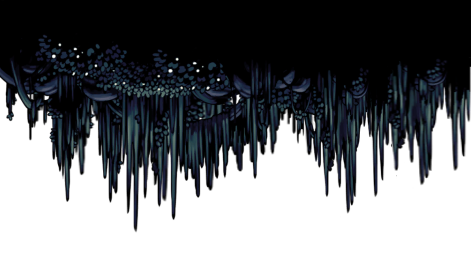
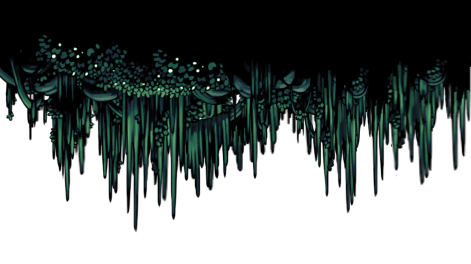
Decorated first level

diff --git a/src/main/java/platformer/model/levels/LevelObjectManager.java b/src/main/java/platformer/model/levels/LevelObjectManager.java
@@ -18,8 +18,8 @@ public class LevelObjectManager {
             "BIG_STONE1", "BIG_STONE2", "BIG_STONE3", "THORNS1", "THORNS2", "THORNS3", "PLANT1", "PLANT2",
             "PLANT3", "PLANT4", "PLANT5", "PLANT6", "PLANT7", "PLANT8", "PLANT9", "PLANT10",
             "PLANT11", "VINES1", "VINES1_BIG", "VINES2", "VINES3", "VINES4", "MOSS1", "MOSS2",
-            "LEAF1", "BUSH1", "THORNS1_BIG", "VINES2_BIG", "MOSS1_BIG", "GROUND1", "GROUND2", "MOSS3",
-            "MOSS4"
+            "LEAF1", "BUSH1", "THORNS1_BIG", "VINES2_BIG", "MOSS1_BIG", "VINES5", "STONE_MOSS1", "MOSS3",
+            "MOSS4", "STONE_MOSS2", "BLACK", "LEFT_END", "RIGHT_END"
     };
 
     private final Map<String, Point> size = new HashMap<>() {{
@@ -36,13 +36,13 @@ public class LevelObjectManager {
         put("PLANT5",               new Point((int)(32*Tiles.SCALE.getValue()), (int)(32*Tiles.SCALE.getValue())));             //10
         put("PLANT6",               new Point((int)(32*Tiles.SCALE.getValue()), (int)(32*Tiles.SCALE.getValue())));             //11
         put("PLANT7",               new Point((int)(32*Tiles.SCALE.getValue()), (int)(32*Tiles.SCALE.getValue())));             //12
-        put("PLANT8",               new Point((int)(32*Tiles.SCALE.getValue()), (int)(32*Tiles.SCALE.getValue())));             //13
+        put("PLANT8",               new Point((int)(32*Tiles.SCALE.getValue()), (int)(32*1.5*Tiles.SCALE.getValue())));         //13
         put("PLANT9",               new Point((int)(32*Tiles.SCALE.getValue()), (int)(32*Tiles.SCALE.getValue())));             //14
         put("PLANT10",              new Point((int)(32*Tiles.SCALE.getValue()), (int)(32*Tiles.SCALE.getValue())));             //15
         put("PLANT11",              new Point((int)(32*Tiles.SCALE.getValue()), (int)(32*Tiles.SCALE.getValue())));             //16
         put("VINES1",               new Point((int)(32*Tiles.SCALE.getValue()), (int)(32*3*Tiles.SCALE.getValue())));           //17
         put("VINES1_BIG",           new Point((int)(32*4*Tiles.SCALE.getValue()), (int)(32*8*Tiles.SCALE.getValue())));         //18
-        put("VINES2",               new Point((int)(32*Tiles.SCALE.getValue()), (int)(32*3*Tiles.SCALE.getValue())));           //19
+        put("VINES2",               new Point((int)(32*1.5*Tiles.SCALE.getValue()), (int)(32*3*Tiles.SCALE.getValue())));       //19
         put("VINES3",               new Point((int)(32*Tiles.SCALE.getValue()), (int)(32*3*Tiles.SCALE.getValue())));           //20
         put("VINES4",               new Point((int)(32*Tiles.SCALE.getValue()), (int)(32*3*Tiles.SCALE.getValue())));           //21
         put("MOSS1",                new Point((int)(32*Tiles.SCALE.getValue()), (int)(32*3*Tiles.SCALE.getValue())));           //22
@@ -52,27 +52,31 @@ public class LevelObjectManager {
         put("THORNS1_BIG",          new Point((int)(32*8*Tiles.SCALE.getValue()), (int)(32*3*Tiles.SCALE.getValue())));         //26
         put("VINES2_BIG",           new Point((int)(32*3*Tiles.SCALE.getValue()), (int)(32*5*Tiles.SCALE.getValue())));         //27
         put("MOSS1_BIG",            new Point((int)(32*3*Tiles.SCALE.getValue()), (int)(32*8*Tiles.SCALE.getValue())));         //28
-        put("GROUND1",              new Point((int)(32*6*Tiles.SCALE.getValue()), (int)(32*2*Tiles.SCALE.getValue())));         //29
-        put("GROUND2",              new Point((int)(32*6*Tiles.SCALE.getValue()), (int)(32*2*Tiles.SCALE.getValue())));         //30
+        put("VINES5",               new Point((int)(32*2*Tiles.SCALE.getValue()), (int)(32*4.2*Tiles.SCALE.getValue())));       //29
+        put("STONE_MOSS1",          new Point((int)(32*3*Tiles.SCALE.getValue()), (int)(32*3*Tiles.SCALE.getValue())));         //30
         put("MOSS3",                new Point((int)(32*6.1*Tiles.SCALE.getValue()), (int)(32*2*Tiles.SCALE.getValue())));       //31
         put("MOSS4",                new Point((int)(32*9*Tiles.SCALE.getValue()), (int)(32*2*Tiles.SCALE.getValue())));         //32
+        put("STONE_MOSS2",          new Point((int)(32*4*Tiles.SCALE.getValue()), (int)(32*2*Tiles.SCALE.getValue())));         //33
+        put("BLACK",                new Point((int)(32*Tiles.SCALE.getValue()), (int)(32*Tiles.SCALE.getValue())));             //34
+        put("LEFT_END",             new Point((int)(32*Tiles.SCALE.getValue()), (int)(32*Tiles.SCALE.getValue())));             //35
+        put("RIGHT_END",            new Point((int)(32*Tiles.SCALE.getValue()), (int)(32*Tiles.SCALE.getValue())));             //36
     }};
 
     private final Map<String, Point> objectData = new HashMap<>() {{
-        // Data                     [YOffset, Layer]
-        put("BIG_STONE1",           new Point(8, 1));
-        put("BIG_STONE2",           new Point(8, 1));
-        put("BIG_STONE3",           new Point(8, 1));
+        // Data                     [YOffset, XOffset]
+        put("BIG_STONE1",           new Point(8, 0));
+        put("BIG_STONE2",           new Point(8, 0));
+        put("BIG_STONE3",           new Point(8, 0));
         put("THORNS1",              new Point(8, 0));
         put("THORNS2",              new Point(8, 0));
         put("THORNS3",              new Point(8, 0));
-        put("PLANT1",               new Point(10, 0));
+        put("PLANT1",               new Point(7, 0));
         put("PLANT2",               new Point(10, 0));
         put("PLANT3",               new Point(10, 0));
         put("PLANT4",               new Point(10, 0));
         put("PLANT5",               new Point(10, 0));
         put("PLANT6",               new Point(10, 0));
-        put("PLANT7",               new Point(10, 0));
+        put("PLANT7",               new Point(7, 0));
         put("PLANT8",               new Point(10, 0));
         put("PLANT9",               new Point(10, 0));
         put("PLANT10",              new Point(10, 0));
@@ -89,10 +93,14 @@ public class LevelObjectManager {
         put("THORNS1_BIG",          new Point(-20, 0));
         put("VINES2_BIG",           new Point(-50, 0));
         put("MOSS1_BIG",            new Point(-10, 0));
-        put("GROUND1",              new Point(-10, 2));
-        put("GROUND2",              new Point(-10, 2));
-        put("MOSS3",                new Point(10, 2));
-        put("MOSS4",                new Point(10, 2));
+        put("VINES5",               new Point(10, 0));
+        put("STONE_MOSS1",          new Point(10, 0));
+        put("MOSS3",                new Point(10, 0));
+        put("MOSS4",                new Point(10, 0));
+        put("STONE_MOSS2",          new Point(15, 0));
+        put("BLACK",                new Point(0, 0));
+        put("LEFT_END",             new Point(0, 0));
+        put("RIGHT_END",            new Point(0, 0));
     }};
 
     public LevelObjectManager() {
@@ -105,16 +113,17 @@ public class LevelObjectManager {
         for (int i = 0; i < models.length; i++) {
             int bigFlag = 0;
             if (id[i].contains("_BIG")) bigFlag = 4;
-            models[i] = Utils.getInstance().importImage("src/main/resources/images/levels/levelObjects/"+id[i].substring(0, id[i].length() - bigFlag)+".png", size.get(id[i]).x, size.get(id[i]).y);
+            String name = id[i].substring(0, id[i].length() - bigFlag);
+            models[i] = Utils.getInstance().importImage("src/main/resources/images/levels/levelObjects/"+name+".png", size.get(id[i]).x, size.get(id[i]).y);
         }
     }
 
     private void init() {
         this.lvlObjects = new LevelObject[id.length];
         for (int i = 0; i < lvlObjects.length; i++) {
-            lvlObjects[i] = new LevelObject(0, i, models[i], models[i].getWidth(), models[i].getHeight());
+            lvlObjects[i] = new LevelObject(models[i], models[i].getWidth(), models[i].getHeight());
             lvlObjects[i].setYOffset((int)(objectData.get(id[i]).x*Tiles.SCALE.getValue()));
-            lvlObjects[i].setLayer(objectData.get(id[i]).y);
+            lvlObjects[i].setXOffset((int)(objectData.get(id[i]).y*Tiles.SCALE.getValue()));
         }
     }
 

diff --git a/src/main/java/platformer/model/levels/LevelManager.java b/src/main/java/platformer/model/levels/LevelManager.java
@@ -18,9 +18,7 @@ public class LevelManager {
     private BufferedImage[] levelSprite;
     private final ArrayList<Level> levels = new ArrayList<>();
     private int levelIndex = 0;
-    private Particle[] particles;
-
-    private BufferedImage leftEnd, rightEnd;
+    private final Particle[] particles;
 
     public LevelManager(Game game, PlayingState playingState) {
         this.game = game;
@@ -40,8 +38,6 @@ public class LevelManager {
                 levelSprite[index] = temp.getSubimage(i*32, j*32, 32, 32);
             }
         }
-        leftEnd = Utils.getInstance().importImage("src/main/resources/images/levels/leftEnd.png", 32, 32);
-        rightEnd = Utils.getInstance().importImage("src/main/resources/images/levels/rightEnd.png", 32, 32);
     }
 
     private void buildLevels() {
@@ -72,16 +68,32 @@ public class LevelManager {
         loadLevel();
     }
 
-    private void renderDeco(Graphics g, int xLevelOffset, int yLevelOffset, int layer) {
+    private void renderDeco(Graphics g, int xLevelOffset, int yLevelOffset, int lay) {
         for (int i = 0; i < levels.get(levelIndex).getLvlData().length; i++) {
             for (int j = 0; j < levels.get(levelIndex).getLvlData()[0].length; j++) {
                 int index = levels.get(levelIndex).getDecoSpriteIndex(i, j);
-                if (index == -1 || index > 42) continue;
+                int layer = levels.get(levelIndex).getLayerSpriteIndex(i, j);
+                if (index == -1) continue;
                 int x = (int)(Tiles.TILES_SIZE.getValue()*i-xLevelOffset);
                 int y =  (int)(Tiles.TILES_SIZE.getValue()*j-yLevelOffset);
                 LevelObject levelObject = levelObjectManager.getLvlObjects()[index];
-                if (levelObject.getLayer() == layer)
-                    g.drawImage(levelObject.getObjectModel(), x, y+levelObject.getYOffset(), levelObject.getW(), levelObject.getH(), null);
+                if (layer == lay) g.drawImage(levelObject.getObjectModel(), x+levelObject.getXOffset(), y+levelObject.getYOffset(), levelObject.getW(), levelObject.getH(), null);
+            }
+        }
+    }
+
+    private void renderTerrain(Graphics g, int xLevelOffset, int yLevelOffset, boolean behind) {
+        for (int i = 0; i < levels.get(levelIndex).getLvlData().length; i++) {
+            for (int j = 0; j < levels.get(levelIndex).getLvlData()[0].length; j++) {
+                int index = levels.get(levelIndex).getSpriteIndex(i, j);
+                if ((!behind && index < 255) || index == -1) continue;
+                if (behind && index >= 255) continue;
+                if (!behind) index -= 255;
+                int x = (int)(Tiles.TILES_SIZE.getValue()*i-xLevelOffset);
+                int y =  (int)(Tiles.TILES_SIZE.getValue()*j-yLevelOffset);
+                int w = (int)Tiles.TILES_SIZE.getValue()+1;
+                int h = (int)Tiles.TILES_SIZE.getValue()+1;
+                g.drawImage(levelSprite[index], x, y, w, h, null);
             }
         }
     }
@@ -91,32 +103,13 @@ public class LevelManager {
         renderDeco(g, xLevelOffset, yLevelOffset, 1);
         g.setColor(new Color(1, 130, 120, 110));
         g.fillRect(0, 0, (int)Tiles.GAME_WIDTH.getValue(), (int)Tiles.GAME_HEIGHT.getValue());
-        for (int i = 0; i < levels.get(levelIndex).getLvlData().length; i++) {
-            for (int j = 0; j < levels.get(levelIndex).getLvlData()[0].length; j++) {
-                int index = levels.get(levelIndex).getSpriteIndex(i, j);
-                if (index == -1) continue;
-                if (index == -2) renderExit(g, xLevelOffset, yLevelOffset, rightEnd, i, j, true);
-                else if (index == -3) renderExit(g, xLevelOffset, yLevelOffset, leftEnd, i, j, false);
-                else {
-                    int x = (int)(Tiles.TILES_SIZE.getValue()*i-xLevelOffset);
-                    int y =  (int)(Tiles.TILES_SIZE.getValue()*j-yLevelOffset);
-                    int w = (int)Tiles.TILES_SIZE.getValue()+1;
-                    int h = (int)Tiles.TILES_SIZE.getValue()+1;
-                    g.drawImage(levelSprite[index], x, y, w, h, null);
-                }
-            }
-        }
+        renderDeco(g, xLevelOffset, yLevelOffset, 2);
+        renderTerrain(g, xLevelOffset, yLevelOffset, true);
+        renderDeco(g, xLevelOffset, yLevelOffset, 3);
+        renderTerrain(g, xLevelOffset, yLevelOffset, false);
         for (Particle particle : particles) {
             particle.render(g);
         }
-        renderDeco(g, xLevelOffset, yLevelOffset, 2);
-    }
-
-    private void renderExit(Graphics g, int xLevelOffset, int yLevelOffset, BufferedImage object, int i, int j, boolean flag) {
-        int k = flag ? (int)Tiles.SCALE.getValue()*10 : -(int)Tiles.SCALE.getValue()*10;
-        int x =  (int)(Tiles.TILES_SIZE.getValue()*i-xLevelOffset), y = (int)(Tiles.TILES_SIZE.getValue()*j-yLevelOffset);
-        int w = (int)Tiles.TILES_SIZE.getValue()+k, h = (int)Tiles.TILES_SIZE.getValue();
-        g.drawImage(object, x, y, w, h, null);
     }
 
     public Level getCurrentLevel() {

diff --git a/src/main/java/platformer/utils/Utils.java b/src/main/java/platformer/utils/Utils.java
@@ -76,26 +76,27 @@ public class Utils {
             for (int j = 0; j < level.getHeight(); j++) {
                 Color color = new Color(level.getRGB(i, j));
                 int value = color.getRed();
-                if (value == 50) value = -2;
-                else if (value == 51) value = -3;
-                else if (value >= 49) value = -1;
+                if (value >= 49) value = -1;
+                if (color.getBlue() == 255 && color.getGreen() == 255) value += 255;
                 lvlData[i][j] = value;
             }
         }
         return lvlData;
     }
 
-    public int[][] getDecoData(BufferedImage level) {
-        int[][] decoData = new int[level.getWidth()][level.getHeight()];
+    public int[][] getDecoData(BufferedImage level, boolean layer) {
+        int[][] data = new int[level.getWidth()][level.getHeight()];
         for (int i = 0; i < level.getWidth(); i++) {
             for (int j = 0; j < level.getHeight(); j++) {
                 Color color = new Color(level.getRGB(i, j));
-                int value = color.getBlue();
-                if (value >= 64) value = -1;
-                decoData[i][j] = value;
+                int value;
+                if (layer) value = color.getGreen();
+                else value = color.getBlue();
+                if ((value >= 40 && !layer) || (value >= 4 && layer)) value = -1;
+                data[i][j] = value;
             }
         }
-        return decoData;
+        return data;
     }
 
     public ArrayList<Skeleton> getSkeletonData(BufferedImage level) {
@@ -303,8 +304,8 @@ public class Utils {
         int xTile = (int)(hitBox.x/ Tiles.TILES_SIZE.getValue());
         int yTile = (int)(hitBox.y / Tiles.TILES_SIZE.getValue());
         int xTileRight = (int)((hitBox.x+ hitBox.width)/ Tiles.TILES_SIZE.getValue());
-        if (level.getSpriteIndex(xTile, yTile) == -2 || level.getSpriteIndex(xTileRight, yTile) == -2) return 1;
-        if (level.getSpriteIndex(xTile, yTile) == -3) return -1;
+        if (level.getDecoSpriteIndex(xTile, yTile) == 36 || level.getDecoSpriteIndex(xTileRight, yTile) == 36) return 1;
+        if (level.getDecoSpriteIndex(xTile, yTile) == 35) return -1;
         return 0;
     }
 

diff --git a/src/main/java/platformer/model/levels/Level.java b/src/main/java/platformer/model/levels/Level.java
@@ -19,6 +19,7 @@ public class Level {
     private final BufferedImage dataL2;
     private int[][] lvlData;
     private int[][] decoData;
+    private int[][] layerData;
     private ArrayList<Skeleton> skeletons;
     private ArrayList<Potion> potions;
     private ArrayList<Container> containers;
@@ -42,7 +43,8 @@ public class Level {
 
     private void init() {
         this.lvlData = Utils.getInstance().getLevelData(dataL1);
-        this.decoData = Utils.getInstance().getDecoData(dataL2);
+        this.decoData = Utils.getInstance().getDecoData(dataL2, false);
+        this.layerData = Utils.getInstance().getDecoData(dataL2, true);
         this.skeletons = Utils.getInstance().getSkeletonData(dataL1);
         this.spikes = Utils.getInstance().getSpikeData(dataL1);
         this.arrowLaunchers = Utils.getInstance().getArrowLauncherData(dataL1);
@@ -69,6 +71,10 @@ public class Level {
 
     public int getDecoSpriteIndex(int x, int y) {
         return decoData[x][y];
+    }
+
+    public int getLayerSpriteIndex(int x, int y) {
+        return layerData[x][y];
     }
 
     public int[][] getLvlData() {

diff --git a/src/main/java/platformer/model/levels/LevelObject.java b/src/main/java/platformer/model/levels/LevelObject.java
@@ -4,16 +4,11 @@ import java.awt.image.BufferedImage;
 
 public class LevelObject {
 
-    private final int tilesetID;
-    private final int objectID;
     private int xOffset, yOffset;
     private final BufferedImage objectModel;
     private final int w, h;
-    private int layer;
 
-    public LevelObject(int tilesetID, int objectID, BufferedImage objectModel, int w, int h) {
-        this.tilesetID = tilesetID;
-        this.objectID = objectID;
+    public LevelObject(BufferedImage objectModel, int w, int h) {
         this.objectModel = objectModel;
         this.w = w;
         this.h = h;
@@ -45,13 +40,5 @@ public class LevelObject {
 
     public int getH() {
         return h;
-    }
-
-    public int getLayer() {
-        return layer;
-    }
-
-    public void setLayer(int layer) {
-        this.layer = layer;
     }
 }
